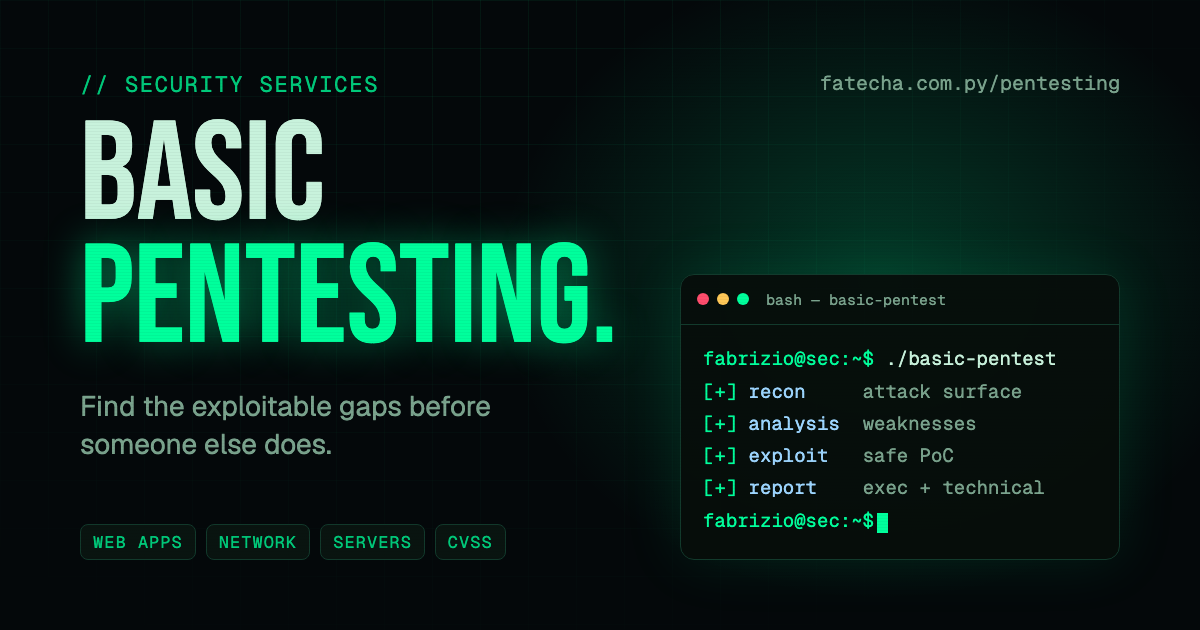
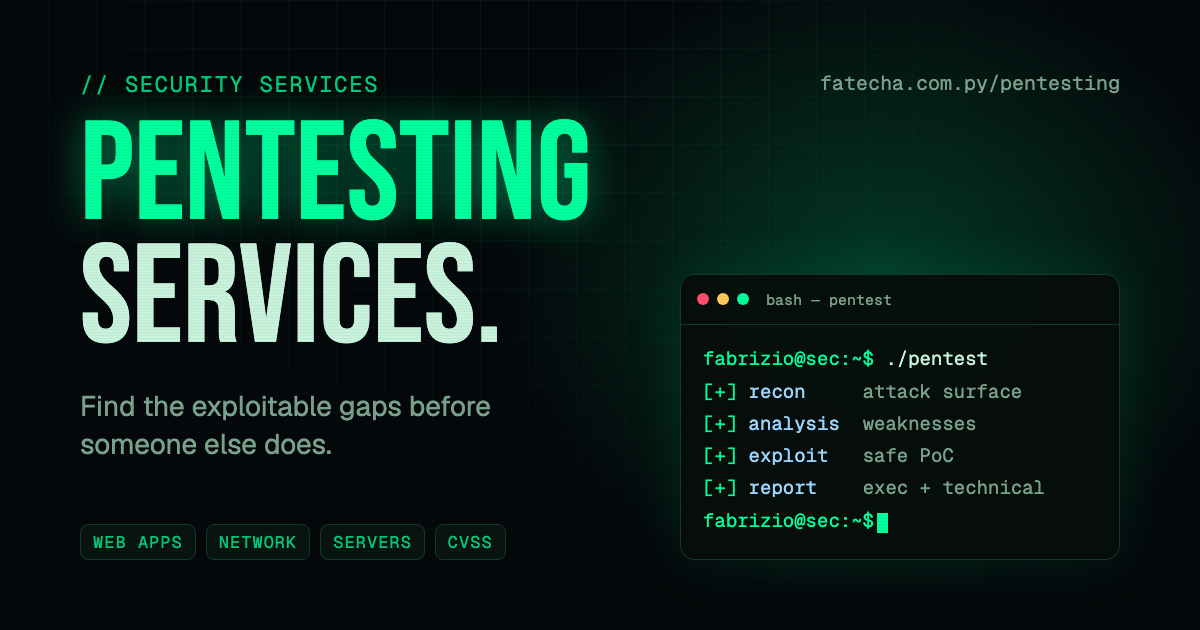
feat: move pentesting card under Profile and drop the word "basic"
- The Security teaser is now the second block, right below the Profile
  panel; sections are renumbered 01-08.
- Remove "basic" from the pentesting page (title, hero, scope, terminal,
  meta tags) and from the Open Graph image.

Changed region(s): [[0.0617, 0.1508, 0.5242, 0.573], [0.7708, 0.5429, 0.8942, 0.6032], [0.7092, 0.4524, 0.8017, 0.4825]]

diff --git a/src/data/pentest.js b/src/data/pentest.js
@@ -1,15 +1,15 @@
 // Content for the /pentesting page. Every translatable value is { en, es }.
-// Source: "Servicio de Pentesting Básico" brochure. The brochure's price table is
+// Source: the pentesting service brochure. The brochure's price table is
 // intentionally NOT shown on the site.
 export const pentest = {
   meta: {
     title: {
-      en: 'Basic Pentesting Services | Fabrizio Fatecha',
-      es: 'Servicios de Pentesting Básico | Fabrizio Fatecha',
+      en: 'Pentesting Services | Fabrizio Fatecha',
+      es: 'Servicios de Pentesting | Fabrizio Fatecha',
     },
     description: {
-      en: 'Basic penetration testing for web applications, networks and servers: reconnaissance, analysis, controlled exploitation and clear executive and technical reports.',
-      es: 'Pentesting básico para aplicaciones web, redes y servidores: reconocimiento, análisis, explotación controlada e informes ejecutivo y técnico claros.',
+      en: 'Penetration testing for web applications, networks and servers: reconnaissance, analysis, controlled exploitation and clear executive and technical reports.',
+      es: 'Pentesting para aplicaciones web, redes y servidores: reconocimiento, análisis, explotación controlada e informes ejecutivo y técnico claros.',
     },
   },
 
@@ -25,8 +25,8 @@ export const pentest = {
 
   hero: {
     kicker: { en: '// security services', es: '// servicios de seguridad' },
-    // Two lines; the second one is highlighted.
-    title: { en: ['Basic', 'Pentesting.'], es: ['Pentesting', 'Básico.'] },
+    // Two lines; the one containing "pentest" is highlighted in green.
+    title: { en: ['Pentesting', 'Services.'], es: ['Servicios de', 'Pentesting.'] },
     intro: {
       en: 'Find the exploitable gaps in your systems before someone else does. A methodical, controlled security test of your web apps, networks and servers.',
       es: 'Encuentra las brechas explotables de tus sistemas antes de que alguien más las encuentre. Un análisis metódico y controlado de tus aplicaciones web, redes y servidores.',
@@ -77,10 +77,10 @@ export const pentest = {
     items: [
       {
         tag: 'WEB',
-        title: { en: 'Basic web applications', es: 'Aplicaciones web básicas' },
+        title: { en: 'Web applications', es: 'Aplicaciones web' },
         text: {
-          en: 'Login forms, input validation and basic business logic checks.',
-          es: 'Verificación de formularios de acceso, validación de entradas y lógica de negocio elemental.',
+          en: 'Login forms, input validation and business logic checks.',
+          es: 'Verificación de formularios de acceso, validación de entradas y lógica de negocio.',
         },
       },
       {

diff --git a/src/data/ui.js b/src/data/ui.js
@@ -29,18 +29,18 @@ export const ui = {
   },
   sections: {
     profile: { en: '01 — Profile', es: '01 — Perfil' },
-    projects: { en: '02 — Projects', es: '02 — Proyectos' },
-    experience: { en: '03 — Experience', es: '03 — Experiencia' },
-    skills: { en: '04 — Skills', es: '04 — Habilidades' },
-    education: { en: '05 — Education', es: '05 — Educación' },
-    certifications: { en: '06 — Certifications', es: '06 — Certificaciones' },
-    security: { en: '07 — Security', es: '07 — Seguridad' },
+    security: { en: '02 — Security', es: '02 — Seguridad' },
+    projects: { en: '03 — Projects', es: '03 — Proyectos' },
+    experience: { en: '04 — Experience', es: '04 — Experiencia' },
+    skills: { en: '05 — Skills', es: '05 — Habilidades' },
+    education: { en: '06 — Education', es: '06 — Educación' },
+    certifications: { en: '07 — Certifications', es: '07 — Certificaciones' },
     contact: { en: '08 — Contact', es: '08 — Contacto' },
   },
-  // Teaser panel that links to the /pentesting/ page.
+  // Teaser panel (right below Profile) that links to the /pentesting/ page.
   security: {
-    prompt: 'fabrizio@sec:~$ ./basic-pentest',
-    title: { en: 'Basic pentesting services.', es: 'Servicios de pentesting básico.' },
+    prompt: 'fabrizio@sec:~$ ./pentest',
+    title: { en: 'Pentesting services.', es: 'Servicios de pentesting.' },
     text: {
       en: 'Methodical, controlled security testing of web apps, networks and servers, delivered with clear executive and technical reports.',
       es: 'Pruebas de seguridad metódicas y controladas para aplicaciones web, redes y servidores, con informes ejecutivo y técnico claros.',

diff --git a/pentesting/index.html b/pentesting/index.html
@@ -4,15 +4,15 @@
     <meta charset="UTF-8" />
     <meta name="viewport" content="width=device-width, initial-scale=1.0" />
     <meta name="theme-color" content="#04080a" />
-    <title>Basic Pentesting Services | Fabrizio Fatecha</title>
+    <title>Pentesting Services | Fabrizio Fatecha</title>
     <meta
       name="description"
-      content="Basic penetration testing for web applications, networks and servers: reconnaissance, analysis, controlled exploitation and clear executive and technical reports."
+      content="Penetration testing for web applications, networks and servers: reconnaissance, analysis, controlled exploitation and clear executive and technical reports."
     />
-    <meta property="og:title" content="Basic Pentesting Services | Fabrizio Fatecha" />
+    <meta property="og:title" content="Pentesting Services | Fabrizio Fatecha" />
     <meta
       property="og:description"
-      content="Basic penetration testing for web applications, networks and servers: reconnaissance, analysis, controlled exploitation and clear executive and technical reports."
+      content="Penetration testing for web applications, networks and servers: reconnaissance, analysis, controlled exploitation and clear executive and technical reports."
     />
     <meta property="og:type" content="website" />
     <meta property="og:image" content="__SITE_URL__/og-pentesting.png" />

diff --git a/src/components/pentest/PentestPage.jsx b/src/components/pentest/PentestPage.jsx
@@ -25,7 +25,7 @@ function Block({ id, label, title, children }) {
 
 function Hero({ mailto }) {
   const { t } = useLang()
-  const [first, second] = t(d.hero.title)
+  const lines = t(d.hero.title)
   return (
     <section id="top" className="pt-hero">
       <div className="pt-glow" aria-hidden="true" />
@@ -34,8 +34,14 @@ function Hero({ mailto }) {
           <div className="pt-hero-left">
             <p className="pt-kicker">{t(d.hero.kicker)}</p>
             <h1 className="pt-title">
-              <span className="pt-title-line">{first}</span>
-              <span className="pt-title-line pt-glitch">{second}</span>
+              {lines.map((line) => (
+                <span
+                  key={line}
+                  className={/pentest/i.test(line) ? 'pt-title-line pt-glitch' : 'pt-title-line'}
+                >
+                  {line}
+                </span>
+              ))}
             </h1>
             <p className="pt-p pt-hero-intro">{t(d.hero.intro)}</p>
             <div className="pt-actions">

diff --git a/src/components/pentest/Terminal.jsx b/src/components/pentest/Terminal.jsx
@@ -5,7 +5,7 @@ const PROMPT = 'fabrizio@sec:~$'
 const SCRIPT = [
   { kind: 'cmd', text: 'whoami' },
   { kind: 'out', text: 'fabrizio-fatecha' },
-  { kind: 'cmd', text: './basic-pentest -s web,net,srv' },
+  { kind: 'cmd', text: './pentest -s web,net,srv' },
   { kind: 'ok', label: 'recon', text: 'mapping attack surface' },
   { kind: 'ok', label: 'analysis', text: 'misconfigs · old software' },
   { kind: 'ok', label: 'exploit', text: 'safe proof-of-concept' },
@@ -64,7 +64,7 @@ export default function Terminal() {
         <span className="pt-dot pt-dot-r" />
         <span className="pt-dot pt-dot-a" />
         <span className="pt-dot pt-dot-g" />
-        <span className="pt-term-title">bash — basic-pentest</span>
+        <span className="pt-term-title">bash — pentest</span>
       </div>
       <div className="pt-term-body">
         {SCRIPT.slice(0, step).map((line, i) => <Line key={i} line={line} />)}

diff --git a/src/styles/global.css b/src/styles/global.css
@@ -189,7 +189,7 @@ button { font: inherit; color: inherit; }
 .nav ul .nav-accent a:hover { color: #00a566; }
 
 /* security teaser panel (links to /pentesting/) */
-.sec-wrap { margin-bottom: 72px; }
+.sec-wrap { margin-top: 24px; } /* sits right below the Profile panel */
 .panel.sec-panel {
   background: #04080a; border: 1px solid #123a2c;
   box-shadow: 0 0 60px rgba(0, 255, 156, .07), inset 0 0 80px rgba(0, 255, 156, .03);

diff --git a/src/App.jsx b/src/App.jsx
@@ -16,12 +16,12 @@ export default function App() {
       <main>
         <Hero />
         <Profile />
+        <SecurityTeaser />
         <Projects />
         <Experience />
         <Skills />
         <Education />
         <Certifications />
-        <SecurityTeaser />
         <Contact />
       </main>
     </>
